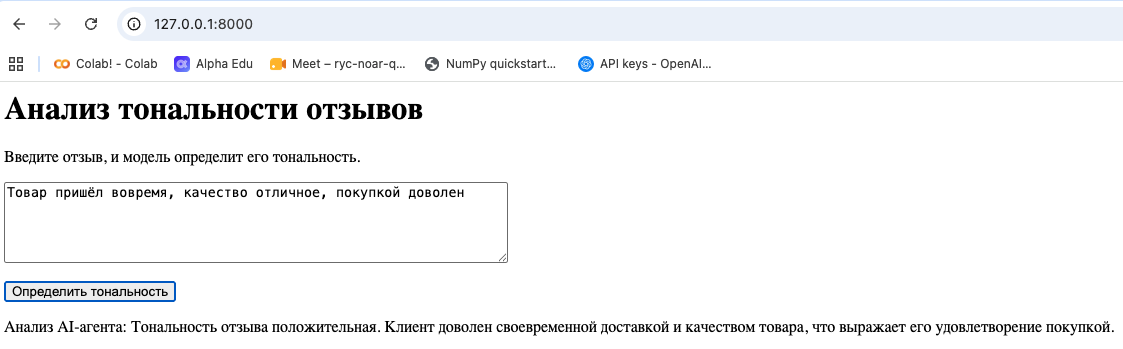
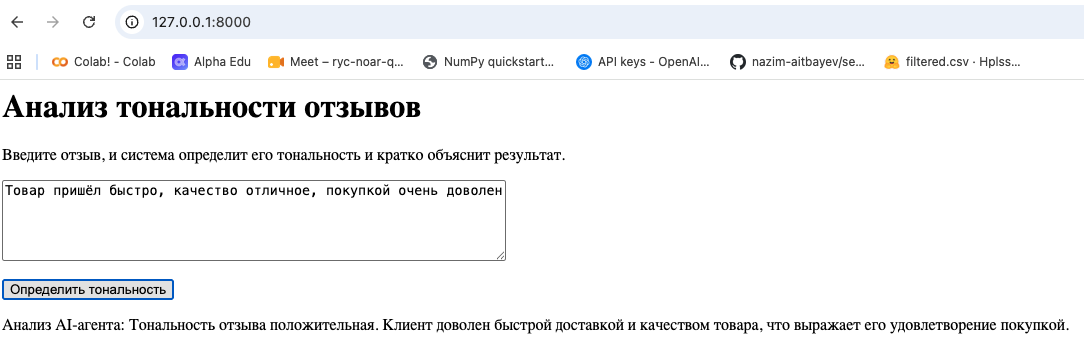
Update interface description

diff --git a/app.py b/app.py
@@ -42,7 +42,7 @@ def home():
         </head>
         <body>
             <h1>Анализ тональности отзывов</h1>
-            <p>Введите отзыв, и модель определит его тональность.</p>
+            <p>Введите отзыв, и система определит его тональность и кратко объяснит результат.</p>
 
             <textarea id="review" rows="5" cols="60" placeholder="Введите отзыв"></textarea>
             <br><br>

diff --git a/README.md b/README.md
@@ -48,7 +48,7 @@
 
 ## Интерфейс
 
-Для демонстрации работы модели создан веб-интерфейс на FastAPI.
+Для демонстрации работы системы создан веб-интерфейс на FastAPI.
 
 Пользователь вводит текст отзыва, после чего ML-модель определяет его тональность. Дополнительно AI-агент формирует краткое текстовое объяснение
  полученного результата.
